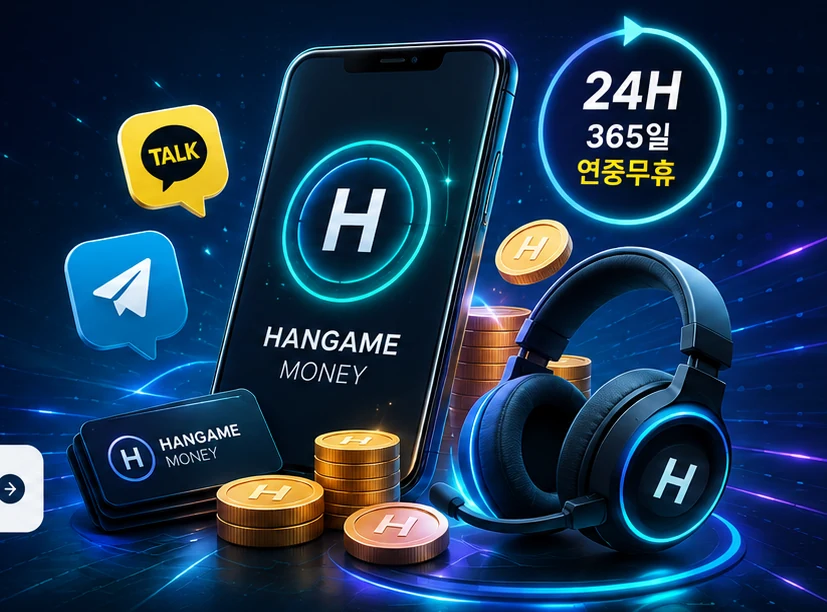
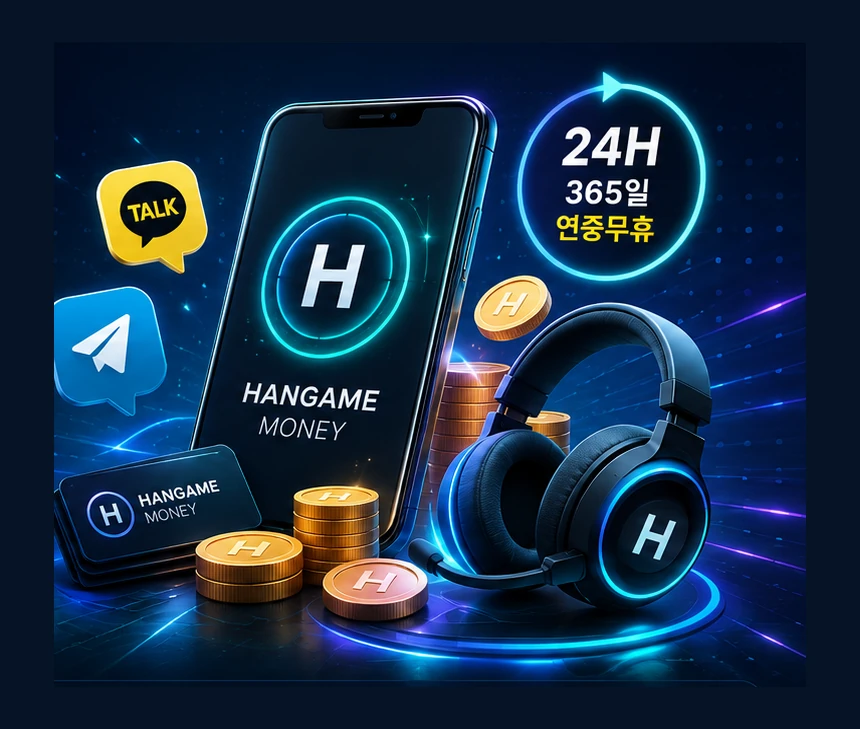
Add files via upload

diff --git a/styles.css b/styles.css
@@ -1,4 +1,4 @@
-*{box-sizing:border-box}html{scroll-behavior:smooth}body{margin:0;font-family:Pretendard,"Noto Sans KR",-apple-system,BlinkMacSystemFont,"Segoe UI",sans-serif;color:#fff;background:#061120}a{text-decoration:none;color:inherit}button{font:inherit}.container{width:min(1180px,calc(100% - 36px));margin:0 auto}.topbar{position:sticky;top:0;z-index:50;background:rgba(5,16,31,.92);backdrop-filter:blur(18px);border-bottom:1px solid rgba(99,214,255,.12)}.nav{height:82px;display:flex;align-items:center;gap:28px}.brand{display:flex;align-items:center;gap:12px;min-width:260px}.brand-icon{width:48px;height:48px;border-radius:14px;display:grid;place-items:center;font-size:22px;font-weight:900;color:#061120;background:linear-gradient(135deg,#77e6ff,#6b86ff);box-shadow:0 0 25px rgba(61,188,255,.34)}.brand-copy strong{display:block;font-size:20px}.brand-copy small{display:block;margin-top:2px;font-size:10px;letter-spacing:1.4px;color:#95aac3}.menu{margin-left:auto;display:flex;gap:32px;color:#c8d4e1;font-size:14px;font-weight:700}.menu a:hover{color:#fff}.nav-actions{display:flex;align-items:center;gap:12px}.top-phone{display:flex;align-items:center;gap:10px;padding:9px 14px;border-radius:16px;border:1px solid rgba(69,226,255,.6);background:rgba(8,37,62,.55)}.top-phone>span:first-child{font-size:18px}.top-phone small{display:block;color:#9fb8cb;font-size:9px}.top-phone b{display:block;font-size:14px}.top-inquiry{padding:13px 18px;border-radius:15px;background:linear-gradient(135deg,#13c7ef,#6f4cff);font-weight:800;box-shadow:0 8px 22px rgba(43,107,255,.25)}.menu-btn{display:none;margin-left:auto;background:none;border:0;padding:8px}.menu-btn span{display:block;width:23px;height:2px;margin:5px;background:#fff}.hero{position:relative;overflow:hidden;padding:92px 0 70px;background:radial-gradient(circle at 78% 35%,rgba(15,99,255,.34),transparent 31%),linear-gradient(120deg,#050e1a 0%,#071728 48%,#081a33 100%)}.hero:before{content:"";position:absolute;inset:0;background-image:linear-gradient(rgba(68,181,255,.035) 1px,transparent 1px),linear-gradient(90deg,rgba(68,181,255,.035) 1px,transparent 1px);background-size:54px 54px;mask-image:linear-gradient(to bottom,black,transparent)}.hero-glow{position:absolute;border-radius:50%;filter:blur(90px);opacity:.35}.g1{width:420px;height:420px;background:#0a68ff;right:-130px;top:80px}.g2{width:300px;height:300px;background:#05d6c3;left:-170px;bottom:-90px}.hero-grid{position:relative;display:grid;grid-template-columns:1.02fr .98fr;gap:54px;align-items:center}.availability{display:inline-flex;align-items:center;gap:9px;padding:10px 16px;border:1px solid rgba(55,193,255,.35);border-radius:999px;background:rgba(10,39,66,.55);color:#dce9f4}.availability .clock{color:#61e9d0;font-size:20px}.availability strong{font-size:14px}.availability em{font-style:normal;color:#4fe9d0}.hero h1{margin:24px 0 18px;font-size:clamp(48px,5.6vw,76px);line-height:1.03;letter-spacing:-4px}.hero h1 span{background:linear-gradient(90deg,#e8f8ff 0,#69c8ff 52%,#3ce5c4 100%);-webkit-background-clip:text;background-clip:text;color:transparent}.hero-copy>p{margin:0;color:#c4d1de;font-size:17px;line-height:1.85;word-break:keep-all}.contact-row{display:grid;grid-template-columns:repeat(3,1fr);gap:12px;margin-top:30px}.contact-card{border:0;cursor:pointer;min-height:76px;display:flex;align-items:center;gap:10px;padding:12px 14px;border-radius:18px;box-shadow:0 14px 30px rgba(0,0,0,.18);transition:.2s transform}.contact-card:hover{transform:translateY(-3px)}.contact-card.kakao{background:#fee500;color:#111}.contact-card.telegram{background:linear-gradient(135deg,#25b7ec,#1685db);color:#fff}.contact-card.phone{background:#fff;color:#08111e}.contact-icon{flex:0 0 42px;height:42px;border-radius:13px;display:grid;place-items:center;background:rgba(0,0,0,.09);font-weight:900;font-size:12px}.telegram .contact-icon,.phone .contact-icon{font-size:20px}.contact-text{min-width:0;text-align:left}.contact-text small{display:block;font-weight:800;font-size:13px}.contact-text strong{display:block;margin-top:3px;font-size:12px;white-space:nowrap}.arrow{margin-left:auto;font-size:26px;opacity:.75}.quick-points{display:flex;gap:26px;margin-top:20px;color:#c9d8e6;font-size:13px}.hero-visual-wrap{position:relative;min-height:500px;display:flex;align-items:center;justify-content:center}.visual-halo{position:absolute;width:78%;height:78%;border-radius:50%;background:radial-gradient(circle,rgba(49,152,255,.26),rgba(23,234,206,.08) 44%,transparent 70%);filter:blur(10px)}.hero-visual{position:relative;width:100%;max-width:620px;border-radius:32px;object-fit:cover;box-shadow:0 35px 80px rgba(0,0,0,.33),0 0 70px rgba(24,128,255,.14);border:1px solid rgba(96,203,255,.18)}.feature-strip{background:#071728;border-top:1px solid rgba(86,200,255,.14);border-bottom:1px solid rgba(86,200,255,.14);padding:26px 0}.features{display:grid;grid-template-columns:repeat(4,1fr);border:1px solid rgba(48,159,255,.25);border-radius:22px;overflow:hidden;background:rgba(8,32,57,.55)}.features article{display:flex;align-items:center;gap:15px;padding:23px 25px;border-right:1px solid rgba(85,174,238,.18)}.features article:last-child{border-right:0}.feature-icon{width:50px;height:50px;border-radius:50%;display:grid;place-items:center;font-weight:900;color:#b7f7ff;border:1px solid #22c6e9;box-shadow:inset 0 0 18px rgba(15,213,231,.22),0 0 20px rgba(14,166,255,.16)}.features strong{display:block;font-size:17px}.features span{display:block;margin-top:2px;color:#95a9bd;font-size:12px}.keyword-strip{background:#06111f;border-bottom:1px solid rgba(255,255,255,.07)}.keywords{display:flex;justify-content:center;align-items:center;gap:30px;min-height:64px;color:#a9c2db;font-size:13px;font-weight:800}.keywords i{width:4px;height:4px;border-radius:50%;background:#2f8cff}.section{padding:95px 0}.section.light{background:#f5f8fc;color:#0b1725}.section.dark{background:#061120}.section-head{text-align:center;margin-bottom:42px}.section-head>span,.label{font-size:11px;letter-spacing:2px;font-weight:900;color:#0ea8d1}.section-head h2,.guide h2,.contact-box h2{font-size:clamp(32px,4vw,46px);letter-spacing:-2px;margin:10px 0}.section-head p{color:#657487}.cards{display:grid;grid-template-columns:repeat(3,1fr);gap:18px}.info-card{padding:30px;border-radius:22px;background:#fff;border:1px solid #e1e8f0;box-shadow:0 16px 38px rgba(11,31,54,.06)}.info-card b{font-size:12px;color:#0aa8cf}.info-card h3{margin:18px 0 9px}.info-card p{margin:0;color:#69788a;font-size:14px}.guide{display:grid;grid-template-columns:.8fr 1.2fr;gap:70px;align-items:start}.guide>div:first-child p{color:#8ea4ba;max-width:420px}.steps{display:grid;gap:12px}.steps article{display:flex;gap:17px;padding:22px;border-radius:18px;background:rgba(255,255,255,.04);border:1px solid rgba(255,255,255,.08)}.steps article>span{flex:0 0 48px;height:48px;border-radius:14px;display:grid;place-items:center;background:linear-gradient(135deg,#257eff,#3fe3c4);color:#061120;font-weight:900}.steps h3{margin:0 0 4px}.steps p{margin:0;color:#91a5b9;font-size:14px}.faq-wrap{max-width:900px}.faq-wrap details{background:#fff;border:1px solid #e1e8f0;border-radius:16px;margin-bottom:12px;padding:0 22px}.faq-wrap summary{cursor:pointer;font-weight:800;padding:20px 0}.faq-wrap details p{color:#647486;margin:0;padding:0 0 20px}.contact-section{padding:0 0 95px;background:#f5f8fc}.contact-box{background:linear-gradient(135deg,#071a31,#0b2d4d);border:1px solid rgba(42,174,255,.18);border-radius:28px;padding:42px;color:#fff;display:grid;grid-template-columns:.7fr 1.3fr;gap:40px;align-items:center;box-shadow:0 25px 60px rgba(9,29,50,.14)}.contact-box p{color:#9eb2c5}.contact-simple{display:grid;grid-template-columns:repeat(3,1fr);gap:10px}.simple{border:0;border-radius:14px;padding:16px;font-weight:900;text-align:center;cursor:pointer}.simple.kakao{background:#fee500;color:#111}.simple.telegram{background:#229ed9}.simple.phone{background:#fff;color:#08111e}footer{background:#030a12;color:#8094a7}.footer{min-height:92px;display:flex;align-items:center;justify-content:space-between}.footer strong{display:block;color:#fff}.footer span{font-size:12px}.footer small{font-size:11px}.toast{position:fixed;left:50%;bottom:25px;transform:translate(-50%,20px);opacity:0;pointer-events:none;padding:12px 18px;border-radius:12px;background:#fff;color:#07111f;font-weight:800;box-shadow:0 14px 35px rgba(0,0,0,.25);transition:.25s;z-index:100}.toast.show{opacity:1;transform:translate(-50%,0)}
+*{box-sizing:border-box}html{scroll-behavior:smooth}body{margin:0;font-family:Pretendard,"Noto Sans KR",-apple-system,BlinkMacSystemFont,"Segoe UI",sans-serif;color:#fff;background:#061120}a{text-decoration:none;color:inherit}button{font:inherit}.container{width:min(1180px,calc(100% - 36px));margin:0 auto}.topbar{position:sticky;top:0;z-index:50;background:rgba(5,16,31,.92);backdrop-filter:blur(18px);border-bottom:1px solid rgba(99,214,255,.12)}.nav{height:82px;display:flex;align-items:center;gap:28px}.brand{display:flex;align-items:center;gap:12px;min-width:260px}.brand-icon{width:48px;height:48px;border-radius:14px;display:grid;place-items:center;font-size:22px;font-weight:900;color:#061120;background:linear-gradient(135deg,#77e6ff,#6b86ff);box-shadow:0 0 25px rgba(61,188,255,.34)}.brand-copy strong{display:block;font-size:20px}.brand-copy small{display:block;margin-top:2px;font-size:10px;letter-spacing:1.4px;color:#95aac3}.menu{margin-left:auto;display:flex;gap:32px;color:#c8d4e1;font-size:14px;font-weight:700}.menu a:hover{color:#fff}.nav-actions{display:flex;align-items:center;gap:12px}.top-phone{display:flex;align-items:center;gap:10px;padding:9px 14px;border-radius:16px;border:1px solid rgba(69,226,255,.6);background:rgba(8,37,62,.55)}.top-phone>span:first-child{font-size:18px}.top-phone small{display:block;color:#9fb8cb;font-size:9px}.top-phone b{display:block;font-size:14px}.top-inquiry{padding:13px 18px;border-radius:15px;background:linear-gradient(135deg,#13c7ef,#6f4cff);font-weight:800;box-shadow:0 8px 22px rgba(43,107,255,.25)}.menu-btn{display:none;margin-left:auto;background:none;border:0;padding:8px}.menu-btn span{display:block;width:23px;height:2px;margin:5px;background:#fff}.hero{position:relative;overflow:hidden;padding:92px 0 70px;background:radial-gradient(circle at 78% 35%,rgba(15,99,255,.34),transparent 31%),linear-gradient(120deg,#050e1a 0%,#071728 48%,#081a33 100%)}.hero:before{content:"";position:absolute;inset:0;background-image:linear-gradient(rgba(68,181,255,.035) 1px,transparent 1px),linear-gradient(90deg,rgba(68,181,255,.035) 1px,transparent 1px);background-size:54px 54px;mask-image:linear-gradient(to bottom,black,transparent)}.hero-glow{position:absolute;border-radius:50%;filter:blur(90px);opacity:.35}.g1{width:420px;height:420px;background:#0a68ff;right:-130px;top:80px}.g2{width:300px;height:300px;background:#05d6c3;left:-170px;bottom:-90px}.hero-grid{position:relative;display:grid;grid-template-columns:1.02fr .98fr;gap:54px;align-items:center}.availability{display:inline-flex;align-items:center;gap:9px;padding:10px 16px;border:1px solid rgba(55,193,255,.35);border-radius:999px;background:rgba(10,39,66,.55);color:#dce9f4}.availability .clock{color:#61e9d0;font-size:20px}.availability strong{font-size:14px}.availability em{font-style:normal;color:#4fe9d0}.hero h1{margin:24px 0 18px;font-size:clamp(48px,5.6vw,76px);line-height:1.03;letter-spacing:-4px}.hero h1 span{background:linear-gradient(90deg,#e8f8ff 0,#69c8ff 52%,#3ce5c4 100%);-webkit-background-clip:text;background-clip:text;color:transparent}.hero-copy>p{margin:0;color:#c4d1de;font-size:17px;line-height:1.85;word-break:keep-all}.contact-row{display:grid;grid-template-columns:repeat(3,1fr);gap:12px;margin-top:30px}.contact-card{border:0;cursor:pointer;min-height:76px;display:flex;align-items:center;gap:10px;padding:12px 14px;border-radius:18px;box-shadow:0 14px 30px rgba(0,0,0,.18);transition:.2s transform}.contact-card:hover{transform:translateY(-3px)}.contact-card.kakao{background:#fee500;color:#111}.contact-card.telegram{background:linear-gradient(135deg,#25b7ec,#1685db);color:#fff}.contact-card.phone{background:#fff;color:#08111e}.contact-icon{flex:0 0 42px;height:42px;border-radius:13px;display:grid;place-items:center;background:rgba(0,0,0,.09);font-weight:900;font-size:12px}.telegram .contact-icon,.phone .contact-icon{font-size:20px}.contact-text{min-width:0;text-align:left}.contact-text small{display:block;font-weight:800;font-size:13px}.contact-text strong{display:block;margin-top:3px;font-size:12px;white-space:nowrap}.arrow{margin-left:auto;font-size:26px;opacity:.75}.quick-points{display:flex;gap:26px;margin-top:20px;color:#c9d8e6;font-size:13px}.hero-visual-wrap{position:relative;min-height:500px;display:flex;align-items:center;justify-content:center}.visual-halo{position:absolute;width:78%;height:78%;border-radius:50%;background:radial-gradient(circle,rgba(49,152,255,.26),rgba(23,234,206,.08) 44%,transparent 70%);filter:blur(10px)}.hero-visual{position:relative;width:100%;max-width:620px;height:auto;border-radius:32px;object-fit:contain;object-position:center;display:block;box-shadow:0 35px 80px rgba(0,0,0,.33),0 0 70px rgba(24,128,255,.14);border:1px solid rgba(96,203,255,.18);background:#051326}.feature-strip{background:#071728;border-top:1px solid rgba(86,200,255,.14);border-bottom:1px solid rgba(86,200,255,.14);padding:26px 0}.features{display:grid;grid-template-columns:repeat(4,1fr);border:1px solid rgba(48,159,255,.25);border-radius:22px;overflow:hidden;background:rgba(8,32,57,.55)}.features article{display:flex;align-items:center;gap:15px;padding:23px 25px;border-right:1px solid rgba(85,174,238,.18)}.features article:last-child{border-right:0}.feature-icon{width:50px;height:50px;border-radius:50%;display:grid;place-items:center;font-weight:900;color:#b7f7ff;border:1px solid #22c6e9;box-shadow:inset 0 0 18px rgba(15,213,231,.22),0 0 20px rgba(14,166,255,.16)}.features strong{display:block;font-size:17px}.features span{display:block;margin-top:2px;color:#95a9bd;font-size:12px}.keyword-strip{background:#06111f;border-bottom:1px solid rgba(255,255,255,.07)}.keywords{display:flex;justify-content:center;align-items:center;gap:30px;min-height:64px;color:#a9c2db;font-size:13px;font-weight:800}.keywords i{width:4px;height:4px;border-radius:50%;background:#2f8cff}.section{padding:95px 0}.section.light{background:#f5f8fc;color:#0b1725}.section.dark{background:#061120}.section-head{text-align:center;margin-bottom:42px}.section-head>span,.label{font-size:11px;letter-spacing:2px;font-weight:900;color:#0ea8d1}.section-head h2,.guide h2,.contact-box h2{font-size:clamp(32px,4vw,46px);letter-spacing:-2px;margin:10px 0}.section-head p{color:#657487}.cards{display:grid;grid-template-columns:repeat(3,1fr);gap:18px}.info-card{padding:30px;border-radius:22px;background:#fff;border:1px solid #e1e8f0;box-shadow:0 16px 38px rgba(11,31,54,.06)}.info-card b{font-size:12px;color:#0aa8cf}.info-card h3{margin:18px 0 9px}.info-card p{margin:0;color:#69788a;font-size:14px}.guide{display:grid;grid-template-columns:.8fr 1.2fr;gap:70px;align-items:start}.guide>div:first-child p{color:#8ea4ba;max-width:420px}.steps{display:grid;gap:12px}.steps article{display:flex;gap:17px;padding:22px;border-radius:18px;background:rgba(255,255,255,.04);border:1px solid rgba(255,255,255,.08)}.steps article>span{flex:0 0 48px;height:48px;border-radius:14px;display:grid;place-items:center;background:linear-gradient(135deg,#257eff,#3fe3c4);color:#061120;font-weight:900}.steps h3{margin:0 0 4px}.steps p{margin:0;color:#91a5b9;font-size:14px}.faq-wrap{max-width:900px}.faq-wrap details{background:#fff;border:1px solid #e1e8f0;border-radius:16px;margin-bottom:12px;padding:0 22px}.faq-wrap summary{cursor:pointer;font-weight:800;padding:20px 0}.faq-wrap details p{color:#647486;margin:0;padding:0 0 20px}.contact-section{padding:0 0 95px;background:#f5f8fc}.contact-box{background:linear-gradient(135deg,#071a31,#0b2d4d);border:1px solid rgba(42,174,255,.18);border-radius:28px;padding:42px;color:#fff;display:grid;grid-template-columns:.7fr 1.3fr;gap:40px;align-items:center;box-shadow:0 25px 60px rgba(9,29,50,.14)}.contact-box p{color:#9eb2c5}.contact-simple{display:grid;grid-template-columns:repeat(3,1fr);gap:10px}.simple{border:0;border-radius:14px;padding:16px;font-weight:900;text-align:center;cursor:pointer}.simple.kakao{background:#fee500;color:#111}.simple.telegram{background:#229ed9}.simple.phone{background:#fff;color:#08111e}footer{background:#030a12;color:#8094a7}.footer{min-height:92px;display:flex;align-items:center;justify-content:space-between}.footer strong{display:block;color:#fff}.footer span{font-size:12px}.footer small{font-size:11px}.toast{position:fixed;left:50%;bottom:25px;transform:translate(-50%,20px);opacity:0;pointer-events:none;padding:12px 18px;border-radius:12px;background:#fff;color:#07111f;font-weight:800;box-shadow:0 14px 35px rgba(0,0,0,.25);transition:.25s;z-index:100}.toast.show{opacity:1;transform:translate(-50%,0)}
 
 @media(max-width:980px){
   .menu{display:none}.nav-actions{margin-left:auto}.hero-grid{grid-template-columns:1fr}.hero-visual-wrap{min-height:auto}.hero-visual{max-width:760px}.features{grid-template-columns:1fr 1fr}.features article:nth-child(2){border-right:0}.features article:nth-child(-n+2){border-bottom:1px solid rgba(85,174,238,.18)}.guide{grid-template-columns:1fr}.contact-box{grid-template-columns:1fr}
